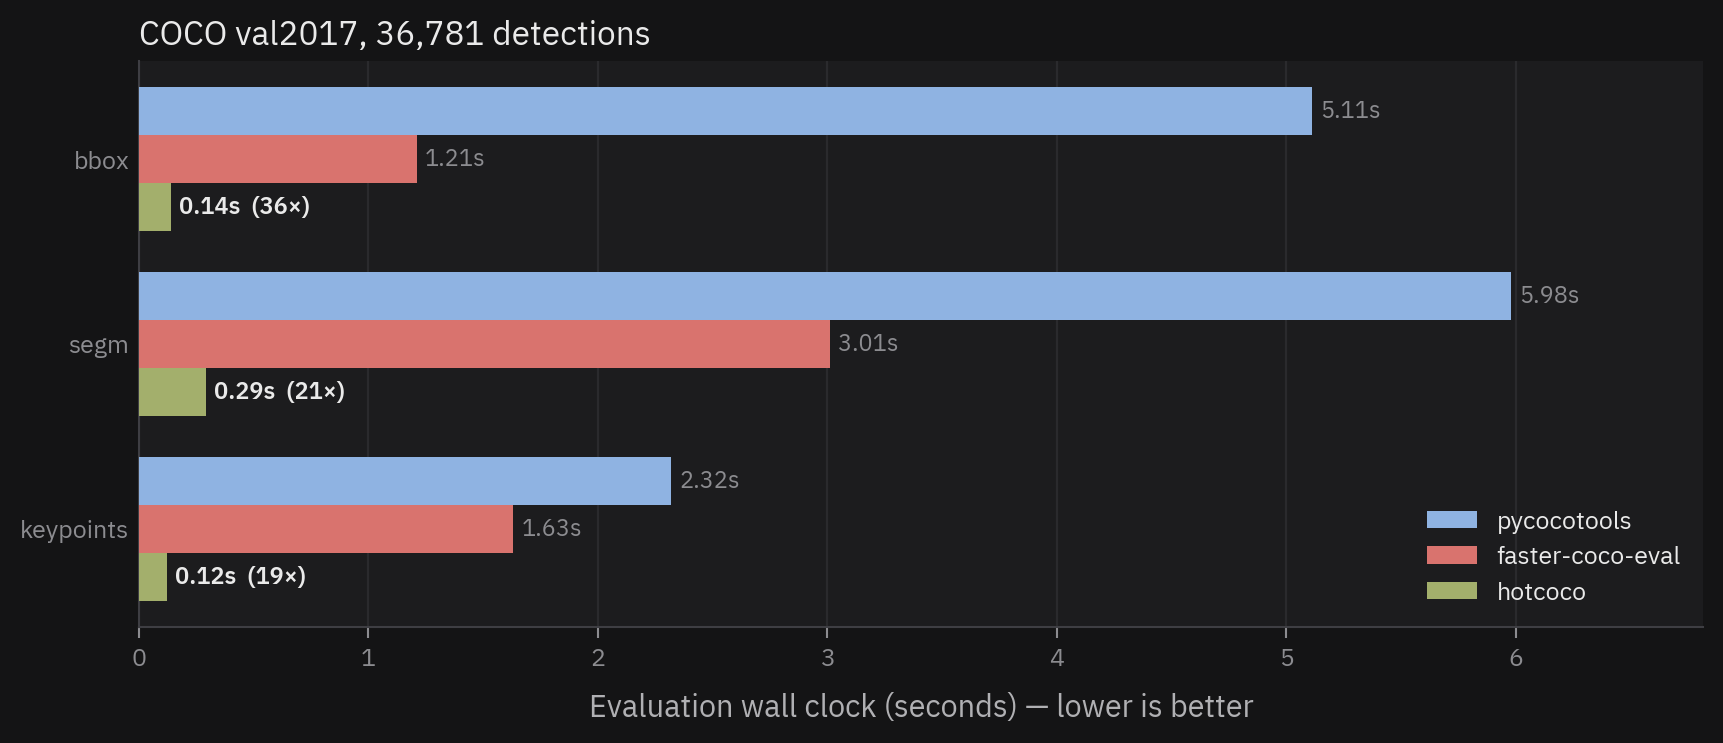
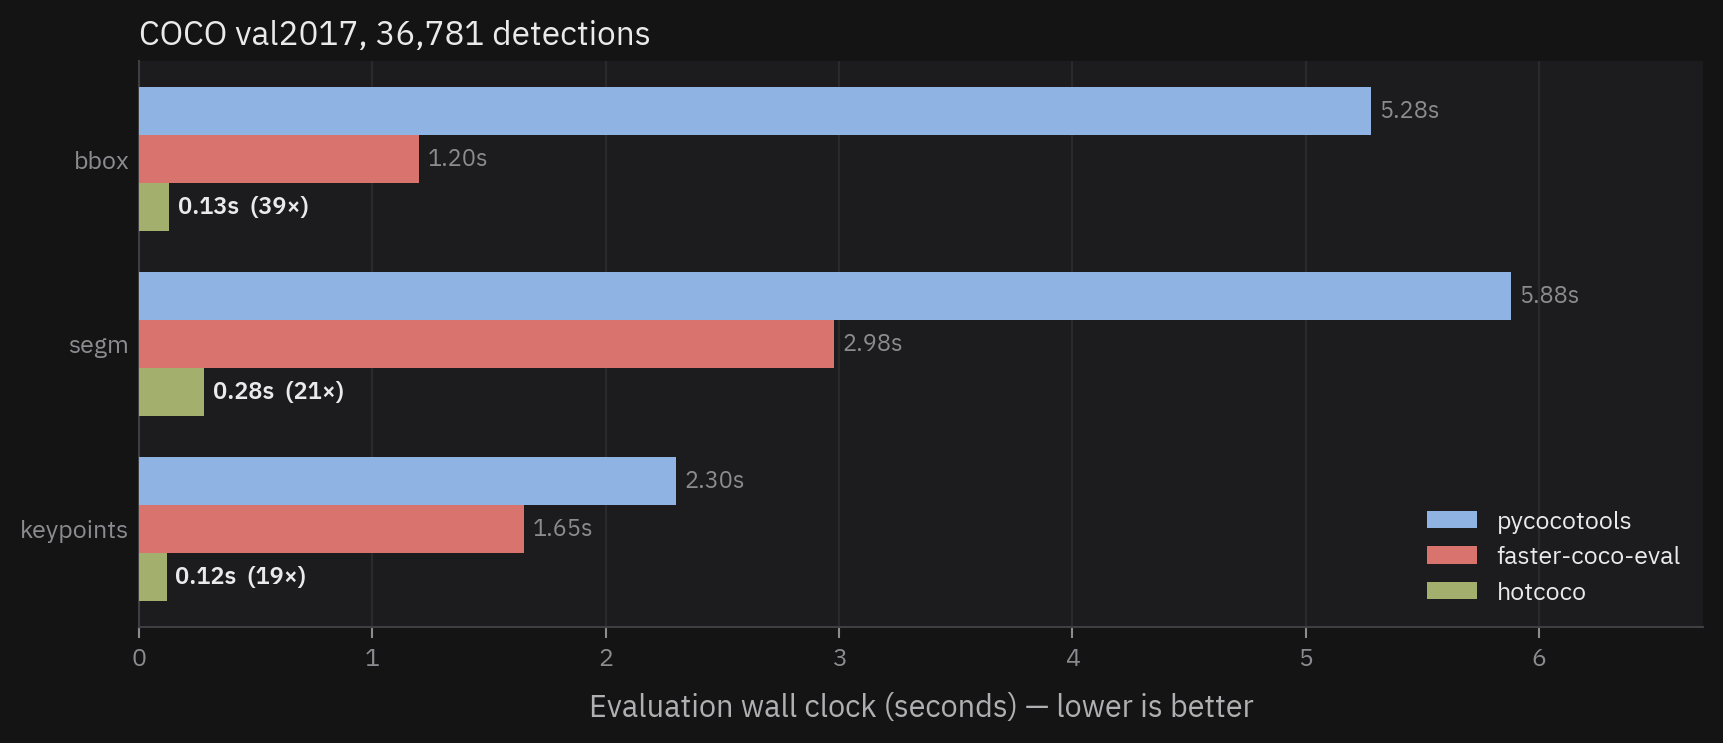
docs(benchmarks): refresh val2017 timings, captured back to back
- 1× and 10× tables re-captured in one session on the merged `accumulate()`
  changes: bbox 0.13s (39.4×), segm 0.28s (20.8×), keypoints 0.12s (19.2×)
- phase table refreshed; engine speedup range now 37–89×
- `scripts/gen_docs_assets.py` labels bars with the measured median speedup
  (`BENCH_SPEEDUP`) instead of a ratio of rounded times; chart PNGs regenerated
- README and docs/index headline numbers synced, and their parity sentence
  restated at the array level to match docs/benchmarks.md

Claude-Session: https://claude.ai/code/session_0122uhTHqxEPRhN3cEZoSaaU

diff --git a/scripts/gen_docs_assets.py b/scripts/gen_docs_assets.py
@@ -60,10 +60,14 @@ DT = VAL2017["bbox"]["dt"]
 
 # Keep in sync with the "Results (1x detections)" table in docs/benchmarks.md.
 BENCH = {
-    "bbox": {"pycocotools": 5.11, "faster-coco-eval": 1.21, "hotcoco": 0.14},
-    "segm": {"pycocotools": 5.98, "faster-coco-eval": 3.01, "hotcoco": 0.29},
-    "keypoints": {"pycocotools": 2.32, "faster-coco-eval": 1.63, "hotcoco": 0.12},
+    "bbox": {"pycocotools": 5.28, "faster-coco-eval": 1.20, "hotcoco": 0.13},
+    "segm": {"pycocotools": 5.88, "faster-coco-eval": 2.98, "hotcoco": 0.28},
+    "keypoints": {"pycocotools": 2.30, "faster-coco-eval": 1.65, "hotcoco": 0.12},
 }
+# hotcoco's speedup vs pycocotools, as the table states it: the median of the
+# per-run ratios, not a ratio of the two-decimal times above, which would round
+# a 0.134s median into a larger multiple than was measured.
+BENCH_SPEEDUP = {"bbox": 39.4, "segm": 20.8, "keypoints": 19.2}
 
 
 def benchmark_chart(out: Path, theme: str) -> None:
@@ -95,8 +99,7 @@ def benchmark_chart(out: Path, theme: str) -> None:
             # The speed-up multiple only means anything on our own bar; the other
             # two are the baseline it is measured against.
             labels = [
-                f"{v:.2f}s  ({BENCH[kind]['pycocotools'] / v:.0f}×)" if ours else f"{v:.2f}s"
-                for kind, v in zip(kinds, values)
+                f"{v:.2f}s  ({BENCH_SPEEDUP[kind]:.0f}×)" if ours else f"{v:.2f}s" for kind, v in zip(kinds, values)
             ]
             ax.bar_label(
                 bars,

diff --git a/docs/benchmarks.md b/docs/benchmarks.md
@@ -26,10 +26,11 @@
 **Hardware:** Apple M1 MacBook Air — 8 cores (4 performance + 4 efficiency), 8 GB RAM
 **Dataset:** COCO val2017 — 5,000 images
 **Detections:** 36,781 synthetic — see [Methodology](#methodology)
-**Timing:** Wall clock time — per-cell median of 3 runs, at both 1× and 10×. The two
-scales were captured separately and the machine was busier during the 10× capture, so
-absolute times are comparable only within a table; the speedup ratios are not affected.
-**Versions:** pycocotools 2.0.11, faster-coco-eval 1.7.2, hotcoco 1.0.0
+**Timing:** Wall clock time — per-cell median of 3 runs, at both 1× and 10×, captured
+back to back in one session (2026-09-25). Absolute times drift between captures on this
+machine, so compare them only within a table; the speedup ratios are not affected.
+**Versions:** pycocotools 2.0.11, faster-coco-eval 1.7.2, hotcoco `main` at 773db52
+(1.0.1 plus the `accumulate()` changes listed under `[Unreleased]`)
 
 ### Results (1x detections)
 
@@ -42,9 +43,9 @@ to pycocotools'. Chart drawn with <code>hotcoco.plot</code>.</figcaption>
 
 | Eval Type | pycocotools | faster-coco-eval | hotcoco |
 |-----------|-------------|------------------|-----------|
-| bbox      | 5.11s | 1.21s (4.2×) | **0.14s (36.2×)** |
-| segm      | 5.98s | 3.01s (2.0×) | **0.29s (20.8×)** |
-| keypoints | 2.32s | 1.63s (1.4×) | **0.12s (18.8×)** |
+| bbox      | 5.28s | 1.20s (4.3×) | **0.13s (39.4×)** |
+| segm      | 5.88s | 2.98s (2.0×) | **0.28s (20.8×)** |
+| keypoints | 2.30s | 1.65s (1.4×) | **0.12s (19.2×)** |
 
 Speedups in parentheses are vs pycocotools.
 
@@ -54,12 +55,12 @@ Scaling detections by 10x (~368,000) to test behavior under higher load:
 
 | Eval Type | pycocotools | faster-coco-eval | hotcoco |
 |-----------|-------------|------------------|-----------|
-| bbox      | 20.92s | 3.93s (5.3×) | **0.63s (33.4×)** |
-| segm      | 24.16s | 8.05s (3.0×) | **1.53s (15.8×)** |
-| keypoints | 9.86s | 7.83s (1.3×) | **1.24s (8.0×)** |
+| bbox      | 21.45s | 4.08s (5.3×) | **0.59s (36.2×)** |
+| segm      | 25.40s | 8.33s (3.0×) | **1.61s (15.7×)** |
+| keypoints | 10.89s | 8.19s (1.3×) | **1.40s (7.6×)** |
 
 Absolute times stay under 2s at 368,000 detections. hotcoco's relative advantage is
-narrower here than in the 1× table — 8–33× rather than 19–36× — because per-call
+narrower here than in the 1× table — 8–36× rather than 19–39× — because per-call
 overhead, where it gains most, is a smaller share of the total once there is this
 much work to do.
 
@@ -72,16 +73,16 @@ time (single run, same synthetic detections as the 1× table):
 
 | Eval type | Phase | pycocotools | faster-coco-eval | hotcoco |
 |-----------|-------|-------------|------------------|---------|
-| bbox      | load  | 0.35s | 0.33s (1.1×) | **0.07s (4.9×)** |
-|           | eval  | 4.67s | 0.98s (4.7×) | **0.07s (69.0×)** |
-| segm      | load  | 0.44s | 0.43s (1.0×) | **0.13s (3.3×)** |
-|           | eval  | 5.57s | 2.59s (2.1×) | **0.16s (35.5×)** |
-| keypoints | load  | 0.52s | 0.54s (1.0×) | **0.09s (5.5×)** |
-|           | eval  | 1.82s | 1.10s (1.7×) | **0.03s (63.3×)** |
-| bbox, bbox-only GT | load | 0.17s | 0.12s (1.4×) | **0.04s (4.2×)** |
-|           | eval  | 4.73s | 1.03s (4.6×) | **0.06s (73.9×)** |
+| bbox      | load  | 0.36s | 0.33s (1.1×) | **0.07s (5.2×)** |
+|           | eval  | 4.57s | 0.98s (4.7×) | **0.06s (77.4×)** |
+| segm      | load  | 0.43s | 0.42s (1.0×) | **0.14s (3.2×)** |
+|           | eval  | 5.46s | 2.57s (2.1×) | **0.15s (37.2×)** |
+| keypoints | load  | 0.52s | 0.54s (1.0×) | **0.09s (5.6×)** |
+|           | eval  | 1.81s | 1.09s (1.7×) | **0.03s (70.0×)** |
+| bbox, bbox-only GT | load | 0.17s | 0.12s (1.4×) | **0.04s (4.3×)** |
+|           | eval  | 4.53s | 1.02s (4.4×) | **0.05s (88.8×)** |
 
-The evaluation engine itself is 35–74× faster than pycocotools; the end-to-end
+The evaluation engine itself is 37–89× faster than pycocotools; the end-to-end
 headline is lower because JSON parsing is a much larger share of hotcoco's total
 than of anyone else's.
 

diff --git a/README.md b/README.md
@@ -5,7 +5,7 @@
 [![Crates.io](https://img.shields.io/crates/v/hotcoco)](https://crates.io/crates/hotcoco)
 [![License: MIT](https://img.shields.io/badge/License-MIT-yellow.svg)](LICENSE)
 
-**hotcoco is a perception evaluation toolkit, written in Rust with Python bindings.** It's a drop-in replacement for [pycocotools](https://github.com/ppwwyyxx/cocoapi) — same numbers to double precision, up to 36× faster — plus the analysis that usually lives in separate tools: TIDE error analysis, confusion matrices, confidence calibration, model comparison, label-error detection, and a dataset browser.
+**hotcoco is a perception evaluation toolkit, written in Rust with Python bindings.** It's a drop-in replacement for [pycocotools](https://github.com/ppwwyyxx/cocoapi) — same numbers to double precision, up to 39× faster — plus the analysis that usually lives in separate tools: TIDE error analysis, confusion matrices, confidence calibration, model comparison, label-error detection, and a dataset browser.
 
 It covers detection today — boxes, masks, keypoints, and oriented boxes on the COCO, LVIS, and Open Images protocols. Panoptic and tracking are planned, on the same engine.
 
@@ -15,7 +15,7 @@ Pure Rust, available as a **Python package**, **CLI tool**, and **Rust library**
 
 ## Performance
 
-Bbox evaluation on COCO val2017 runs in **0.14s** against 5.11s for pycocotools; segm and keypoints see ~20×. Every COCO metric matches pycocotools to the limit of double precision, so your AP scores don't change.
+Bbox evaluation on COCO val2017 runs in **0.13s** against 5.28s for pycocotools; segm and keypoints see ~20×. The precision, recall, and scores arrays are bit-identical to pycocotools', and every summary metric matches to the limit of double precision, so your AP scores don't change.
 
 Full tables, hardware, the Objects365 scale run, phase breakdowns, and parity verification: [Benchmarks](https://derekallman.github.io/hotcoco/benchmarks/).
 

diff --git a/docs/index.md b/docs/index.md
@@ -13,7 +13,7 @@ Perception evaluation for Python, written in Rust.
 </p>
 
 <p class="hero-sub">
-hotcoco evaluates perception models, starting with detection: boxes, masks, keypoints, and oriented boxes on the COCO, LVIS, and Open Images protocols. It's a drop-in replacement for pycocotools — same numbers to double precision, up to 36× faster — and it includes the analysis you'd otherwise need separate tools for: TIDE error analysis, confusion matrices, calibration, model comparison, and a dataset browser.
+hotcoco evaluates perception models, starting with detection: boxes, masks, keypoints, and oriented boxes on the COCO, LVIS, and Open Images protocols. It's a drop-in replacement for pycocotools — same numbers to double precision, up to 39× faster — and it includes the analysis you'd otherwise need separate tools for: TIDE error analysis, confusion matrices, calibration, model comparison, and a dataset browser.
 </p>
 
 <div class="hero-actions" markdown>
@@ -103,8 +103,9 @@ pip install hotcoco
 
 ## Performance
 
-Bbox evaluation on COCO val2017 takes **0.14s**; pycocotools takes 5.11s. Every COCO
-metric matches pycocotools to the limit of double precision.
+Bbox evaluation on COCO val2017 takes **0.13s**; pycocotools takes 5.28s. The
+precision, recall, and scores arrays are bit-identical to pycocotools', and every
+summary metric matches to the limit of double precision.
 
 <figure markdown>
 ![Grouped bar chart of evaluation wall clock for bbox, segm and keypoints across the three libraries](assets/benchmark-speed.png#only-light)
